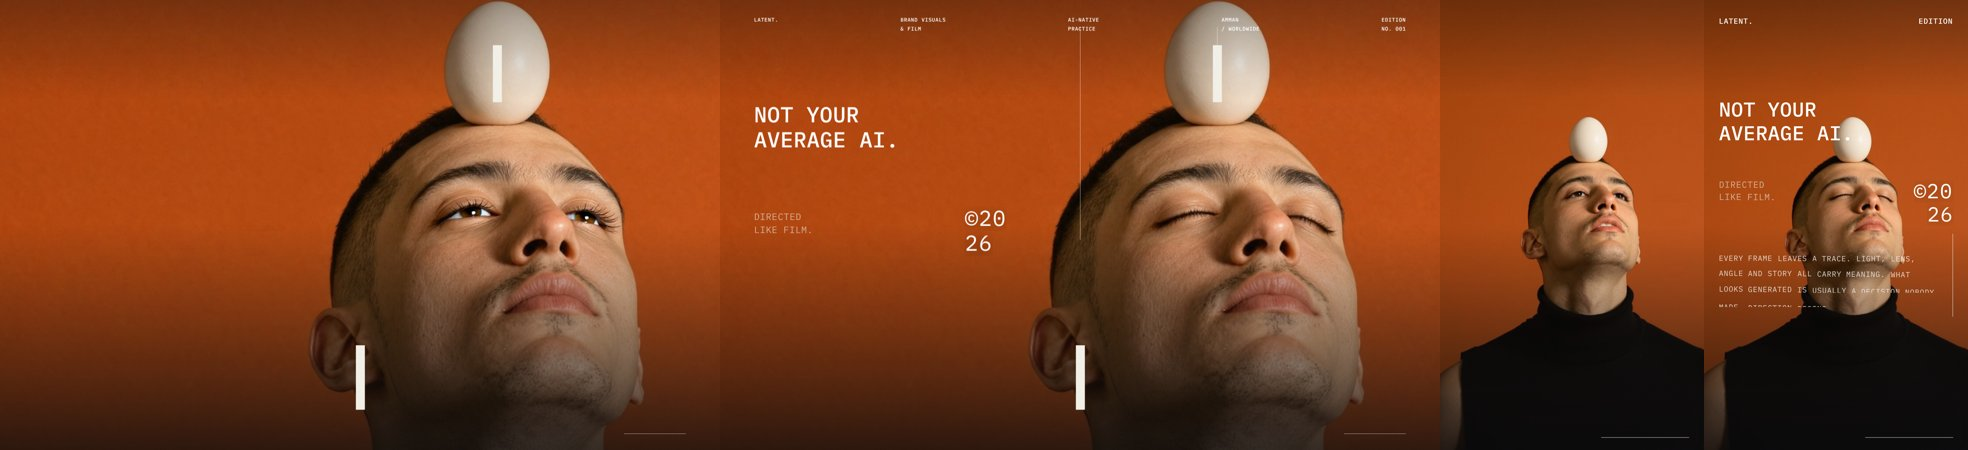
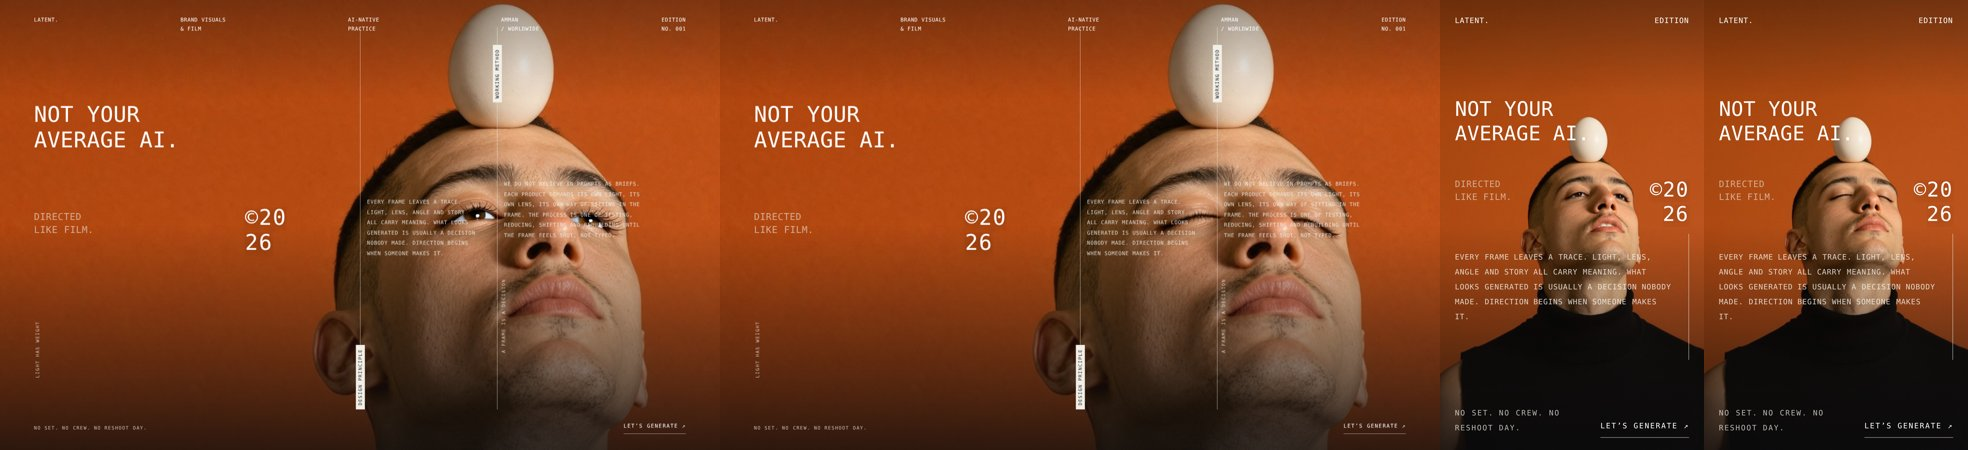
E: hero lines in from the start, the still as a real image under the film, WebP mapping across rebuilds, prune only what nothing references
Claude-Session: https://claude.ai/code/session_0142D8cuVtdJreCuNyu9fMo2

diff --git a/latent-v3e/index.html b/latent-v3e/index.html
@@ -33,7 +33,7 @@
 @font-face{font-family:"Newsreader";font-style:normal;font-weight:300 400;font-display:swap;src:url(media/fonts/newsreader-var.woff2) format("woff2")}
 @font-face{font-family:"Newsreader";font-style:italic;font-weight:300;font-display:swap;src:url(media/fonts/newsreader-italic-var.woff2) format("woff2")}
 .sw,.sp-item,.rv,.sp-visual,.sp-switch,.sp-bg,.lt p,.cyc-w{opacity:1!important;transform:none!important;filter:none!important}</style></noscript>
-<link rel="stylesheet" href="media/site-cdd4d6744a.css">
+<link rel="stylesheet" href="media/site-ea5dbe0084.css">
 <script type="application/ld+json">{"@context":"https://schema.org","@type":"ProfessionalService","@id":"https://latent-studio-ai.com/#studio","name":"Latent Studio","alternateName":"Latent.","url":"https://latent-studio-ai.com/","logo":"https://latent-studio-ai.com/media/og.jpg","image":"https://latent-studio-ai.com/media/og.jpg","description":"An AI-native creative studio in Amman: posts, carousels, reels, campaigns, brand identities, websites and portfolios, directed like film.","email":"latentstudio.jo@gmail.com","telephone":"+962799877131","address":{"@type":"PostalAddress","addressLocality":"Amman","addressCountry":"JO"},"areaServed":[{"@type":"Country","name":"Jordan"},{"@type":"Country","name":"Saudi Arabia"},{"@type":"Country","name":"United Arab Emirates"},{"@type":"Country","name":"Qatar"},{"@type":"Country","name":"Kuwait"},{"@type":"Country","name":"Bahrain"},{"@type":"Country","name":"Oman"},{"@type":"Country","name":"United States"},{"@type":"Country","name":"Canada"}],"sameAs":["https://instagram.com/latentstudio.jo"],"knowsLanguage":["en","ar"],"hasOfferCatalog":{"@type":"OfferCatalog","name":"What we make","itemListElement":[{"@type":"Offer","itemOffered":{"@type":"Service","name":"Posts"}},{"@type":"Offer","itemOffered":{"@type":"Service","name":"Carousels"}},{"@type":"Offer","itemOffered":{"@type":"Service","name":"Reels"}},{"@type":"Offer","itemOffered":{"@type":"Service","name":"Campaigns"}},{"@type":"Offer","itemOffered":{"@type":"Service","name":"Brand identities"}},{"@type":"Offer","itemOffered":{"@type":"Service","name":"Websites"}},{"@type":"Offer","itemOffered":{"@type":"Service","name":"Portfolios"}},{"@type":"Offer","itemOffered":{"@type":"Service","name":"AI visuals and films"}}]},"makesOffer":[{"@type":"Offer","name":"Starter package","description":"A first month of showing up, done properly.","price":"200","priceCurrency":"JOD","availability":"https://schema.org/InStock","url":"https://latent-studio-ai.com/#prices"},{"@type":"Offer","name":"Essential package","description":"The steady feed: more posts, more reels.","price":"275","priceCurrency":"JOD","availability":"https://schema.org/InStock","url":"https://latent-studio-ai.com/#prices"},{"@type":"Offer","name":"Growth package","description":"Scripted film enters the picture.","price":"375","priceCurrency":"JOD","availability":"https://schema.org/InStock","url":"https://latent-studio-ai.com/#prices"},{"@type":"Offer","name":"Signature package","description":"The full campaign, longer and louder.","price":"425","priceCurrency":"JOD","availability":"https://schema.org/InStock","url":"https://latent-studio-ai.com/#prices"}]}</script>
 <script type="application/ld+json">{"@context":"https://schema.org","@type":"FAQPage","mainEntity":[{"@type":"Question","name":"How much does it cost?","acceptedAnswer":{"@type":"Answer","text":"Four packages: Starter 200 JD, Essential 275 JD, Growth 375 JD and Signature 425 JD per package, exclusive of tax. A one-off piece, a brand identity or a website is quoted the same day you write to us."}},{"@type":"Question","name":"How long does it take?","acceptedAnswer":{"@type":"Answer","text":"Posts and carousels in days, not weeks. A reel in about a week. A brand identity or a website in two to four weeks, depending on the scope."}},{"@type":"Question","name":"Will it look real?","acceptedAnswer":{"@type":"Answer","text":"Yes. Every frame is directed before it is generated: light, lens, angle and story are decisions, not prompts. Skin keeps its texture, products keep their exact shape, label and colour, and nothing is smoothed or airbrushed."}},{"@type":"Question","name":"Who owns the files?","acceptedAnswer":{"@type":"Answer","text":"You do. Every delivered image and film is yours to use anywhere, for as long as you like, with the source files on request."}},{"@type":"Question","name":"Do you work in Arabic?","acceptedAnswer":{"@type":"Answer","text":"Yes. We write and design in Arabic and English, for Jordan, Saudi Arabia, the Emirates and the Gulf, with the right typography for each."}},{"@type":"Question","name":"How many revisions?","acceptedAnswer":{"@type":"Answer","text":"Two rounds are included in every package. Direction notes before we generate are free and welcome; they are how the work gets good."}}]}</script>
 </head>
@@ -47,7 +47,9 @@
 
 <div class="lk-hold js-lk"><section class="hero home prisma js-prisma lk-stage" id="top">
   <div class="pv js-pv" aria-hidden="true">
-    <video class="pv-v pv-d js-pv-v" muted loop playsinline preload="none" poster="media/88-3df84b59c9.webp" data-src="media/89-9071afe7bc.mp4"></video>
+    <img class="pv-v pv-still-d" src="media/88-3df84b59c9.webp" alt="" fetchpriority="high" decoding="async" width="1920" height="1080">
+<img class="pv-v pv-still-m" src="media/90-c94bb8499f.webp" alt="" fetchpriority="high" decoding="async" width="1068" height="1920">
+<video class="pv-v pv-d js-pv-v" muted loop playsinline preload="none" poster="media/88-3df84b59c9.webp" data-src="media/89-9071afe7bc.mp4"></video>
     <video class="pv-v pv-m js-pv-v" muted loop playsinline preload="none" poster="media/90-c94bb8499f.webp" data-src="media/91-1bc516b603.mp4"></video>
     <i class="pv-noise"></i><i class="pv-grad"></i>
   </div>
@@ -378,7 +380,7 @@
   <div class="xg-count js-xg-count">1 / 4</div>
 </div>
 
-<script src="media/site-ada9d0d9c7.js"></script>
+<script src="media/site-a9ef6da7ea.js"></script>
 
 
 

diff --git a/latent-v3e/media/site-ea5dbe0084.css b/latent-v3e/media/site-ea5dbe0084.css
@@ -2608,6 +2608,8 @@ a.lw-cell:hover .lw-t b{color:var(--marrow)}
 @media(min-width:821px){.td-pv{display:block;grid-row:2;grid-column:1;margin-top:clamp(18px,3vh,32px);height:clamp(160px,34vh,360px);width:auto;max-width:100%;aspect-ratio:var(--ar,4/5);border-radius:6px;overflow:hidden;background:transparent;opacity:0;transform:translateY(8px) scale(.96);transition:opacity .45s ease,transform .55s cubic-bezier(.2,.8,.2,1)}.td-pv.in{opacity:1;transform:none}.td-pv img{width:100%;height:100%;object-fit:contain;object-position:left center;display:block}}
 @media(max-width:820px){.td-pv{background:transparent}.td-pv img{object-fit:contain;object-position:left center}}
 
+.pv-still-d{display:none}.pv-still-m{display:block}@media(min-width:821px){.pv-still-d{display:block}.pv-still-m{display:none}}
+
 /* the packages, plainly */
 .pq-list{list-style:none;margin:clamp(6px,1vh,14px) 0 0;padding:0;width:100%;text-align:left;border-top:1px solid rgba(20,20,26,.14)}
 .pq-row{display:grid;grid-template-columns:3em minmax(0,.9fr) minmax(0,1.6fr) auto;gap:clamp(12px,2vw,36px);align-items:baseline;padding:clamp(14px,2.2vh,22px) 0;border-bottom:1px solid rgba(20,20,26,.14)}

diff --git a/latent-v3e/media/site-a9ef6da7ea.js b/latent-v3e/media/site-a9ef6da7ea.js
@@ -1019,7 +1019,7 @@
         return;
       }
       var run = Math.max(1, g.run || 1), p = clamp01((window.scrollY - g.top) / run), n = g.items.length;
-      g.items.forEach(function(el, k){ el.classList.toggle("in", p >= .05 + .6 * (n > 1 ? k / (n - 1) : 0)); });
+      g.items.forEach(function(el, k){ el.classList.toggle("in", g === lks[0] || p >= .05 + .6 * (n > 1 ? k / (n - 1) : 0)); });
     });
   }
   if(lks.length){ lkMeasure(); window.addEventListener("resize", lkMeasure, { passive:true }); if(document.fonts && document.fonts.ready) document.fonts.ready.then(lkMeasure); }

diff --git a/latent-v3-src/e_swap_hero.py b/latent-v3-src/e_swap_hero.py
@@ -13,4 +13,12 @@ for k,src,n in [('d_mp4',sys.argv[1],89),('d_jpg',sys.argv[2],88),('m_mp4',sys.a
     d=open(src,'rb').read(); name='%02d-%s.%s'%(n,hashlib.sha1(d).hexdigest()[:10],src.rsplit('.',1)[1]); open(M+name,'wb').write(d); new[k]='media/'+name
 for k in cur:
     if cur[k]!=new[k]: s=s.replace(cur[k],new[k])
+# the still under the film, as a real image: what the screen shows first, so the metric measures the picture and not
+# the paragraph that follows it. The film covers it the moment it plays.
+import re as _re
+s=_re.sub(r'<img class="pv-v pv-still-[dm]"[^>]*>\s*','',s)
+k=s.index('<video class="pv-v pv-d js-pv-v"')
+s=s[:k]+'<img class="pv-v pv-still-d" src="%s" alt="" fetchpriority="high" decoding="async" width="1920" height="1080">\n<img class="pv-v pv-still-m" src="%s" alt="" fetchpriority="high" decoding="async" width="1068" height="1920">\n'%(new['d_jpg'],new['m_jpg'])+s[k:]
+if '.pv-still-d{display:none}' not in s:
+    j=s.rfind('</style>'); s=s[:j]+'\n.pv-still-d{display:none}.pv-still-m{display:block}@media(min-width:821px){.pv-still-d{display:block}.pv-still-m{display:none}}\n'+s[j:]
 open(P,'w',encoding='utf-8').write(s); print(new)

diff --git a/latent-v3-src/e_patch_imgs.py b/latent-v3-src/e_patch_imgs.py
@@ -12,3 +12,9 @@ if 'html,body{overflow-x:clip}' not in s:
 s=open(P,encoding='utf-8').read()
 if '/* hero paragraph: capped stagger */' not in s:
     j=s.rfind('</style>'); s=s[:j]+'\n/* hero paragraph: capped stagger */\n.he-p{--d:.3s!important}\n.he-p .hm-in{transition-delay:calc(var(--d,0s) + min(calc(var(--w,0) * .04s), .5s))}\n'+s[j:]; open(P,'w',encoding='utf-8').write(s); print('hero stagger capped')
+
+# the hero is the first screen: its lines are in from the start, not from the first scroll or the fonts' arrival
+s=open(P,encoding='utf-8').read()
+a='el.classList.toggle("in", p >= .05 + .6 * (n > 1 ? k / (n - 1) : 0));'
+if a in s and 'g === lks[0] ||' not in s:
+    s=s.replace(a,'el.classList.toggle("in", g === lks[0] || p >= .05 + .6 * (n > 1 ? k / (n - 1) : 0));'); open(P,'w',encoding='utf-8').write(s); print('hero in from the start')

diff --git a/latent-v3-src/e_webp.py b/latent-v3-src/e_webp.py
@@ -9,6 +9,12 @@ for c in css: refs|=set(re.findall(r'media/(\d+-[0-9a-f]+\.(?:jpg|jpeg|png))', o
 done=0
 for f in sorted(refs):
     src=D+'media/'+f; w=f.rsplit('.',1)[0]+'.webp'; dst=D+'media/'+w
+    if os.path.exists(dst) and not os.path.exists(src):   # converted on an earlier run: point the page at it
+        s=s.replace('media/'+f,'media/'+w); done+=1
+        for c in css:
+            t=open(D+'media/'+c,encoding='utf-8').read()
+            if 'media/'+f in t: open(D+'media/'+c,'w',encoding='utf-8').write(t.replace('media/'+f,'media/'+w))
+        continue
     if not os.path.exists(src): continue
     im=Image.open(src)
     if f.endswith('.png') and im.mode in ('RGBA','LA','P'):
